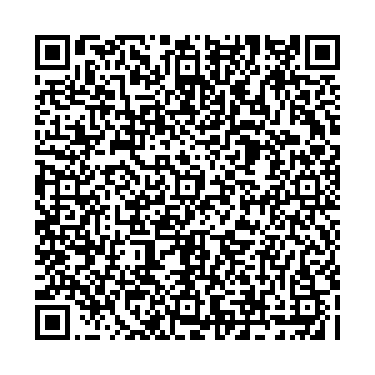
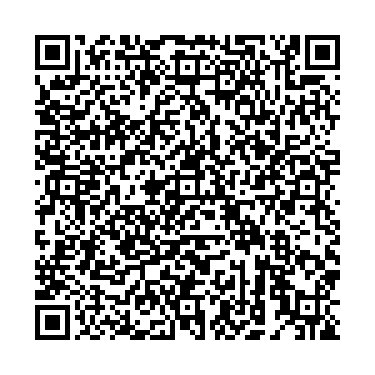
Message fixed

Changed region(s): [[0.088, 0.088, 0.9093, 0.9093]]

diff --git a/app.js b/app.js
@@ -34,7 +34,7 @@ const flowWelcome = addKeyword(EVENTS.WELCOME).addAnswer(
         ctx.pushName +
         "(" +
         ctx.from +
-        ") no pude entender tu mensaje " +
+        ") no pude entender tu mensaje: " +
         ctx.body
     );
   }
